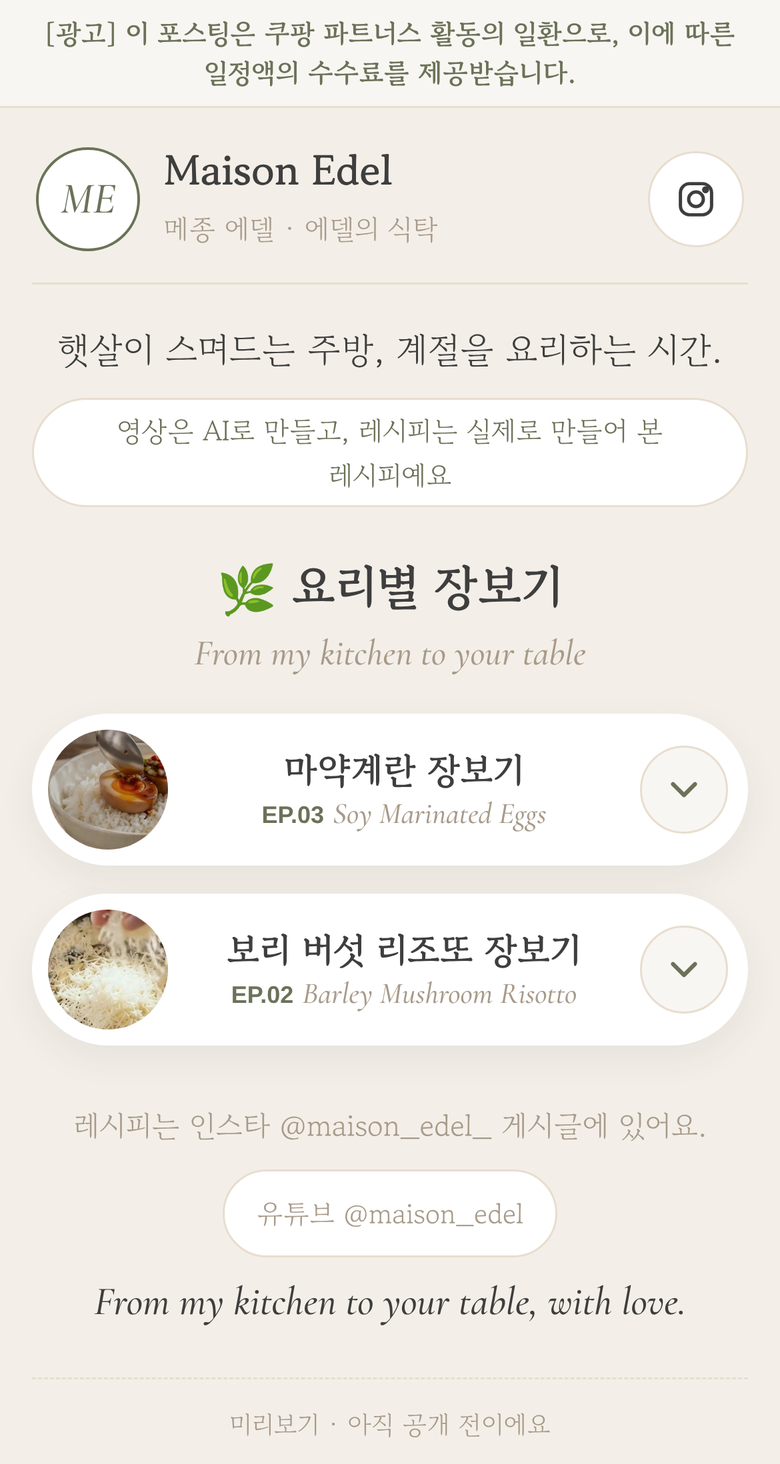
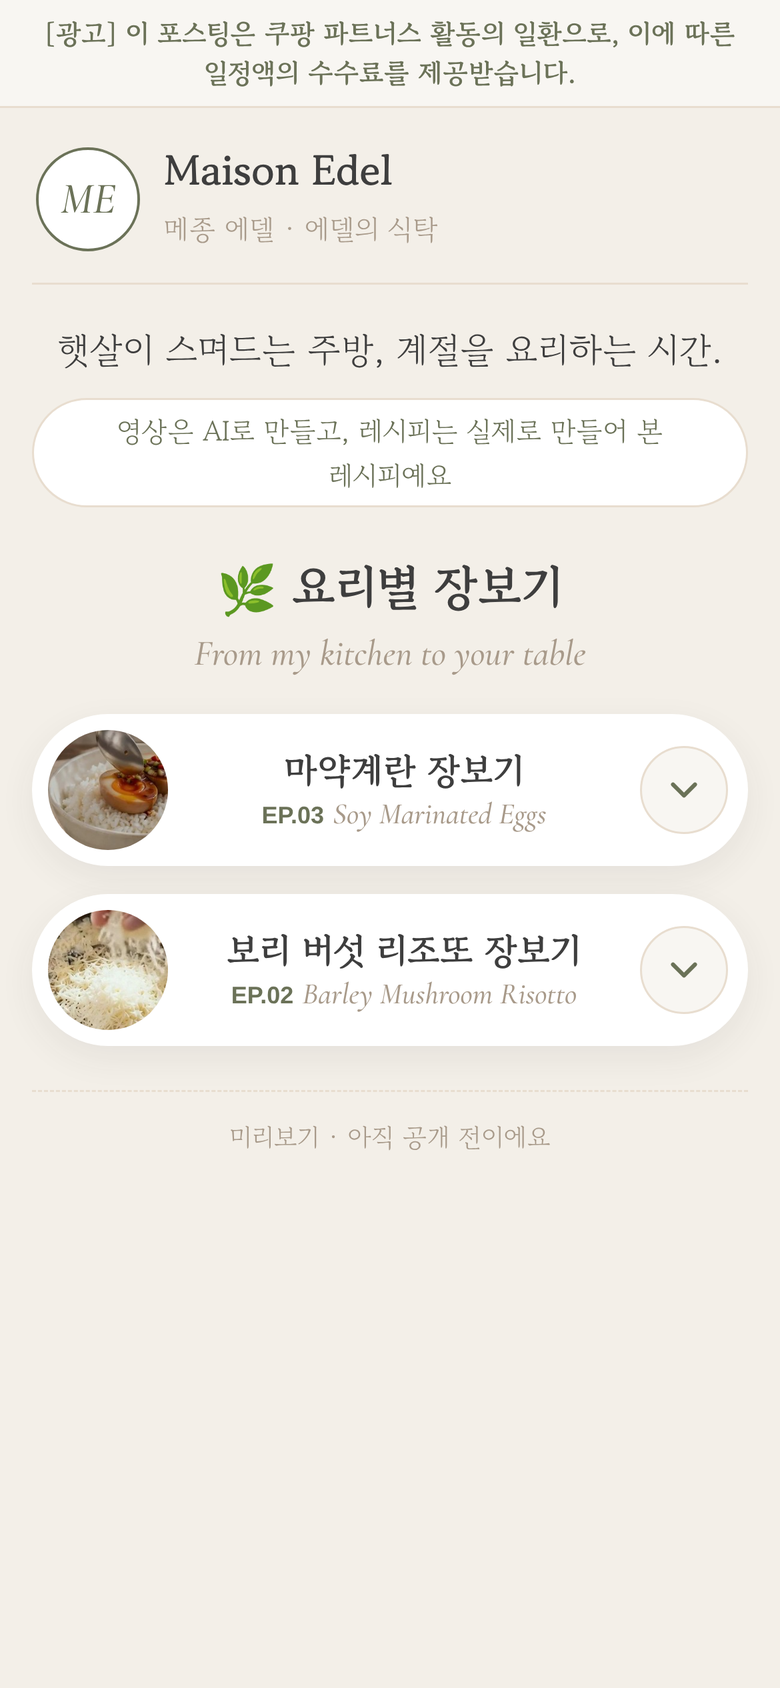
장보기 페이지 6판: 띠 글자 올리브색, 첫 쿠팡 링크(달걀) 반영, 요리별 장보기만 남기기
Claude-Session: https://claude.ai/code/session_01Ethqw5r7mmktrKzGmpSNVy

diff --git a/company/초안/메종에델-장보기/index.html b/company/초안/메종에델-장보기/index.html
@@ -51,9 +51,6 @@
   .head .name { flex: 1; }
   .head .name b { display: block; font-size: 21px; line-height: 1.25; }
   .head .name span { font-size: 14px; color: var(--taupe); }
-  .ig { flex: none; width: 48px; height: 48px; border-radius: 50%; background: var(--white);
-        border: 1px solid var(--beige); display: flex; align-items: center; justify-content: center; color: var(--charcoal); }
-  .ig svg { width: 22px; height: 22px; }
 
   .intro { text-align: center; padding: 18px 0 6px; }
   .intro p { margin: 0; }
@@ -65,14 +62,12 @@
   .card { background: var(--white); border-radius: 28px; box-shadow: 0 6px 18px rgba(62,62,62,.07); }
   .stack { display: grid; gap: 14px; margin-top: 16px; }
 
-
-  /* 4. 요리별 장보기 */
+  /* 요리별 장보기 */
   .shop-head { text-align: center; margin-top: 14px; }
   .shop-head h2 { font-size: 24px; margin: 0; }
   .shop-head .en { color: var(--taupe); font-size: 18px; margin: 0; }
 
-  /* 사진이 큰 카드: 사진 위, 글 아래 */
-  /* 요리 블록: 위 버튼과 같은 알약 모양 (왼쪽 동그란 작은 사진 + 가운데 요리 이름 + 오른쪽 ⌄), 누르면 아래로 재료 버튼이 펼쳐짐 */
+  /* 요리 블록: 알약 모양 (왼쪽 동그란 작은 사진 + 가운데 요리 이름 + 오른쪽 ⌄), 누르면 아래로 재료 버튼이 펼쳐짐 */
   .dish { overflow: hidden; border-radius: 38px; }
   .dish[open] { border-radius: 28px; }
   .dish summary { list-style: none; cursor: pointer; display: flex; align-items: center; gap: 10px;
@@ -101,14 +96,8 @@
   .items-empty { margin: 0; text-align: center; font-size: 15px; color: var(--taupe); }
   .item .slot { font-size: 12px; font-weight: 400; color: var(--taupe); }
 
-  .foot { text-align: center; margin-top: 28px; font-size: 15px; color: var(--taupe); }
-  .foot p { margin: 0; }
-  .foot .yt { margin-top: 10px; }
-  .foot .yt a { display: inline-flex; align-items: center; min-height: 44px; padding: 0 16px; border: 1px solid var(--beige);
-                border-radius: 999px; background: var(--white); color: var(--taupe); font-size: 14px; text-decoration: none; }
-  .foot .en { font-size: 20px; color: var(--charcoal); margin-top: 6px; }
   .preview { margin-top: 22px; font-size: 13px; color: var(--taupe); text-align: center; border-top: 1px dashed var(--beige); padding-top: 12px; }
-  @media (max-width: 340px) { .items { grid-template-columns: 1fr; } .pill .tx { padding-right: 8px; } }
+  @media (max-width: 340px) { .items { grid-template-columns: 1fr; } }
 </style>
 </head>
 <body>
@@ -122,9 +111,6 @@
   <header class="head">
     <div class="mark en" aria-hidden="true">ME</div>
     <div class="name"><b>Maison Edel</b><span>메종 에델 · 에델의 식탁</span></div>
-    <a class="ig" href="https://www.instagram.com/maison_edel_" target="_blank" rel="noopener" aria-label="인스타그램">
-      <svg viewBox="0 0 24 24" fill="none" stroke="currentColor" stroke-width="1.8"><rect x="3.5" y="3.5" width="17" height="17" rx="5"/><circle cx="12" cy="12" r="4"/><circle cx="17.2" cy="6.8" r="1" fill="currentColor"/></svg>
-    </a>
   </header>
 
   <div class="intro">
@@ -171,12 +157,6 @@
     </div>
   </section>
 
-  <footer class="foot">
-    <p>레시피는 인스타 @maison_edel_ 게시글에 있어요.</p>
-    <!-- 유튜브 링크: 회장님이 빼라고 하시면 아래 한 줄만 지운다 -->
-    <p class="yt"><a href="https://youtube.com/@maison_edel" target="_blank" rel="noopener">유튜브 @maison_edel</a></p>
-    <p class="en">From my kitchen to your table, with love.</p>
-  </footer>
 
   <p class="preview">미리보기 · 아직 공개 전이에요</p>
 </main>

diff --git a/company/초안/메종에델-장보기/근거-링크목록.md b/company/초안/메종에델-장보기/근거-링크목록.md
@@ -4,6 +4,7 @@
 - 참고한 배치: 회장님 캡처 `참고-회장님캡처-인포크링크.png` (배치만 참고, 그 계정 이름·사진·로고는 안 씀)
 - 쓴 돈 0원. 동그란 작은 사진은 이미 있는 영상에서 장면을 잘라 씀 (마약계란 = EP.03 인스타용 영상 15.6초, 리조또 = EP.02 영상 파마산 장면)
 - **5판 (회장님 수정 11/2)**: 장보기 칸 가운데 큰 올리브색 대가 표시 상자 삭제(맨 위 띠와 겹침). 맨 위 띠 글씨 13.5px 굵게, 글자는 짙은 차콜(#3E3E3E)·바탕 베이지(#EFE8DC)로 확실히 구분, 원문 전체가 잘리지 않고 스크롤해도 맨 위에 붙어 있음(공정위 "쉽게 보이는 곳에, 알아보기 쉽게"). 펼친 목록 맨 위 작은 표시 줄은 그대로. 위쪽 버튼 사진 겹침 없앰: 유튜브 = EP.03 위에서 본 마약계란 그릇, 최신 편 = EP.02 불린 보리쌀, 인스타 = EP.03 껍질 까는 손(장면5) — 암웨이 팬·칼 안 보임, 0원
+- **6판 (회장님 수정 11/2)**: 페이지에는 맨 위 대가 표시 띠(올리브색 #6B7258, 바탕 아이보리 #F8F6F2, 대비 4.66:1, 13.5px 굵게, 위에 고정), 이름과 소개("영상은 AI로 만들고, 레시피는 실제로 만들어 본 레시피예요"), 요리별 장보기 버튼 목록만 남김. 유튜브·최신 편·인스타 버튼, 이름 줄 인스타 아이콘, 맨 아래 문구는 뺐고 쓰지 않는 사진 파일은 지움. 새 편이 나오면 요리 버튼을 목록 맨 위에 추가(최신 요리가 맨 위). 첫 쿠팡 링크(달걀, https://coupa.ng/cqCuDs)를 노션 표와 장보기-재료.js에 넣음 → 마약계란을 펼치면 달걀 버튼 하나만 보임
 - 재료 근거·사진 출처는 이 문서에만 적음 (index.html·장보기-재료.js는 공개 페이지와 같이 나가므로 내부 주소·노션 이름을 쓰지 않음)
 - **4판 (회장님 수정 11/2)**: 요리 블록을 큰 사진 카드 대신 위 버튼과 같은 알약 모양으로 (왼쪽 동그란 작은 사진 + 가운데 요리 이름 + 오른쪽 ⌄, 누르면 재료 버튼이 펼쳐짐). 큰 사진 파일은 지움. "공구·새 편 일정" 칸은 통째로 뺌 — **일정 칸은 공구 시작 때 다시** 넣음 (전 판 코드는 커밋 a5941a4에 있음)
 - 공개(배포)·인스타 프로필 링크는 결재 전에는 하지 않음
@@ -101,7 +102,7 @@
   - [ ] 공개 금지어(수입·보너스·직급·"스폰서")와 "추천"·"꼭" 같은 말이 없는지
   - [ ] 요리 이름이 `index.html`의 요리 카드(data-dish)와 똑같은지
   - [ ] `장보기-재료.js`에 노션 주소·회장님 정보 같은 내부 정보를 적지 않았는지 (공개 페이지와 같이 나가는 파일)
-  - [ ] 대가 표시 2곳(맨 위 띠: 원문 전체·13.5px 굵게·짙은 글자·스크롤해도 붙어 있음 / 펼친 목록 맨 위 "쿠팡 파트너스 링크 · 수수료를 받아요")이 그대로인지
+  - [ ] 대가 표시 2곳(맨 위 띠: 원문 전체·13.5px 굵게·본문과 다른 올리브색·스크롤해도 붙어 있음 / 펼친 목록 맨 위 "쿠팡 파트너스 링크 · 수수료를 받아요")이 그대로인지
 - **나중 (개발팀 몫, 지금은 하지 않음)**: 공개한 뒤 하루 한 번 노션 표를 읽어 `장보기-재료.js`를 자동으로 고치는 방법
   - 노션 연결 열쇠(통합 토큰)가 필요하고, **그 열쇠는 환경 변수로만 받음** (채팅·파일·노션에 쓰지 않음)
   - 자동으로 바꿔도 쿠팡 주소가 아닌 링크, 암웨이 이름이 든 재료는 넣지 않게 걸러야 함

diff --git a/company/업무일지.md b/company/업무일지.md
@@ -67,3 +67,4 @@
 | 2026-11-02 | 노션 작업실 아래 "🛒 장보기 재료" 표 만들고 7개 넣음(https://app.notion.com/p/4feffa0f44b94d38828a1a2267d3ced4). 장보기 페이지가 재료를 `장보기-재료.js` 한 곳에서 읽고, 쿠팡 링크 빈 재료는 숨김 (3판) | 커머스팀 | 2판 검수 결과 뒤 3판 검수 |
 | 2026-11-02 | 장보기 페이지 4판: 요리 블록을 알약 버튼(작은 사진+이름+⌄, 펼치기)으로, 일정 칸 뺌(공구 시작 때 다시), 공개 파일에서 노션 주소·내부 메모 뺌, 반영 점검표 추가 | 커머스팀 | 4판 검수 |
 | 2026-11-02 | 장보기 페이지 5판: 가운데 큰 대가 표시 상자 삭제, 맨 위 띠 13.5px·짙은 글자로, 위쪽 버튼 사진 겹침 없앰(EP.03·EP.02 다른 장면) | 커머스팀 | 5판 검수 |
+| 2026-11-02 | 장보기 페이지 6판: 띠 글자 올리브색, 첫 쿠팡 링크(달걀) 노션·파일 반영, 유튜브·최신 편·인스타 버튼 빼고 요리별 장보기 중심으로 | 커머스팀 | 6판 검수 |
